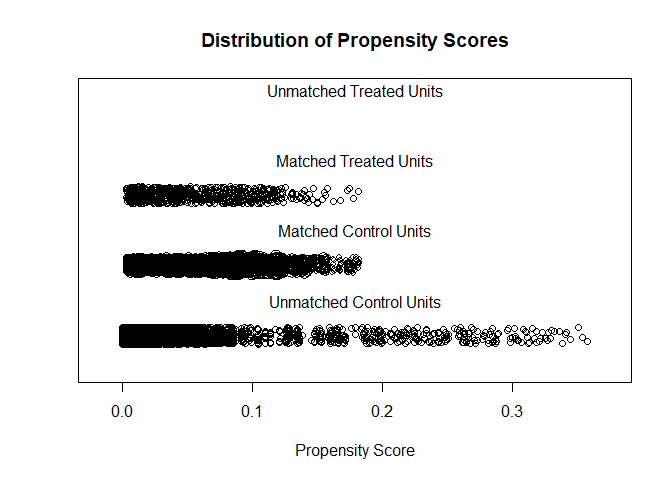
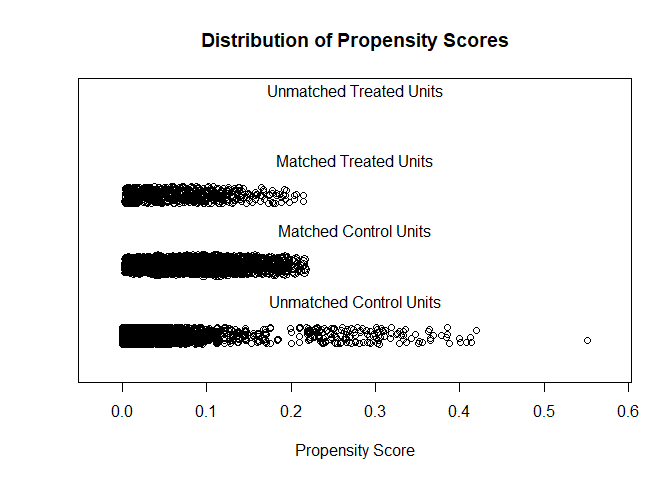
Fix in tutorial

diff --git a/tutorials/BACI_Baviaanskloof.md b/tutorials/BACI_Baviaanskloof.md
@@ -127,15 +127,15 @@ stac_collection <- as.collection("Landsat", stac_endpoint)
 
 The timeframes over which conservation or restoration impacts are
 assessed will depend on the application and study site. Assuming we want
-to evaluate the impact of the Baviaanskloof revegetation from the 5-year
-periods before and the 10-year after the intervention year, we can first
-generate yearly NDVI time series for all impact and candidate control
-pixels:
+to evaluate the impact of the Baviaanskloof revegetation from the
+10-year periods before and the 10-year after the intervention year, we
+can first generate yearly NDVI time series for all impact and candidate
+control pixels:
 
 ``` r
 vi_before <- eo_VI_yearly.stac(matchingCands, "NDVI",
                                endpoint=stac_endpoint, collection=stac_collection,
-                               years=seq(year-5, year-1, 1),
+                               years=seq(year-10, year-1, 1),
                                months = 3:5,
                                maxCloud=60)
 vi_after <- eo_VI_yearly.stac(matchingCands, "NDVI",
@@ -169,7 +169,7 @@ them to temporal files).
 ``` r
 vi_before <- as.SpatRaster(vi_before)
 vi_after <- as.SpatRaster(vi_after)
-plot(vi_before, main=paste0("NDVI - ",seq(year-5, year-1, 1)))
+plot(vi_before, main=paste0("NDVI - ",seq(year-10, year-1, 1)))
 ```
 
 ![](BACI_Baviaanskloof_files/figure-gfm/unnamed-chunk-5-1.png)<!-- -->
@@ -288,11 +288,13 @@ CI_matches <- matchCI(cands=matchingCands,
                       ratio=10, replace=TRUE, eval=TRUE)
 ```
 
+    ## Warning: glm.fit: fitted probabilities numerically 0 or 1 occurred
+
     ## A `matchit` object
     ##  - method: 10:1 nearest neighbor matching with replacement
     ##  - distance: Propensity score
     ##              - estimated with logistic regression
-    ##  - number of obs.: 41533 (original), 5226 (matched)
+    ##  - number of obs.: 41533 (original), 5148 (matched)
     ##  - target estimand: ATT
     ##  - covariates: elevation, slope, northness, eastness, landcover, dist_roads, average, trend
     ## Press <Enter> to continue.
@@ -303,7 +305,7 @@ CI_matches <- matchCI(cands=matchingCands,
     ## 
     ## Summary of Balance for All Data:
     ##                      Means Treated Means Control Std. Mean Diff. Var. Ratio
-    ## distance                    0.0561        0.0149          1.0211     2.0603
+    ## distance                    0.0649        0.0147          1.0216     2.6773
     ## elevation                 546.2999      703.4295         -2.3675     0.1285
     ## slope                       0.2301        0.2721         -0.4061     0.3091
     ## northness                   0.0969        0.0510          0.0644     0.9952
@@ -315,10 +317,10 @@ CI_matches <- matchCI(cands=matchingCands,
     ## landcoverBare ground        0.0000        0.0127         -0.1145          .
     ## landcoverRangeland          1.0000        0.9441          0.2453          .
     ## dist_roads                529.3399      880.9122         -1.0889     0.1317
-    ## average                     0.1261        0.1387         -0.9725     0.1308
-    ## trend                      -0.0000       -0.0000         -0.3697     0.3158
+    ## average                     0.1232        0.1376         -1.1515     0.1047
+    ## trend                       0.0000        0.0000          1.1162     0.1369
     ##                      eCDF Mean eCDF Max
-    ## distance                0.3687   0.5680
+    ## distance                0.3802   0.5933
     ## elevation               0.2543   0.5803
     ## slope                   0.0927   0.1958
     ## northness               0.0246   0.0619
@@ -330,47 +332,47 @@ CI_matches <- matchCI(cands=matchingCands,
     ## landcoverBare ground    0.0127   0.0127
     ## landcoverRangeland      0.0559   0.0559
     ## dist_roads              0.0901   0.2457
-    ## average                 0.1296   0.2582
-    ## trend                   0.1410   0.2609
+    ## average                 0.1478   0.2970
+    ## trend                   0.1841   0.3341
     ## 
     ## Summary of Balance for Matched Data:
     ##                      Means Treated Means Control Std. Mean Diff. Var. Ratio
-    ## distance                    0.0561        0.0561         -0.0000     1.0011
-    ## elevation                 546.2999      535.5230          0.1624     0.2728
-    ## slope                       0.2301        0.2359         -0.0559     0.2184
-    ## northness                   0.0969        0.1058         -0.0125     1.0266
-    ## eastness                    0.4167        0.4115          0.0095     0.9546
+    ## distance                    0.0649        0.0649         -0.0000     1.0011
+    ## elevation                 546.2999      540.5753          0.0863     0.2844
+    ## slope                       0.2301        0.2374         -0.0708     0.2286
+    ## northness                   0.0969        0.1043         -0.0105     0.9844
+    ## eastness                    0.4167        0.3959          0.0375     0.9799
     ## landcoverWater              0.0000        0.0000          0.0000          .
     ## landcoverTrees              0.0000        0.0000          0.0000          .
     ## landcoverCrops              0.0000        0.0000          0.0000          .
     ## landcoverBuilt area         0.0000        0.0000          0.0000          .
     ## landcoverBare ground        0.0000        0.0000          0.0000          .
     ## landcoverRangeland          1.0000        1.0000          0.0000          .
-    ## dist_roads                529.3399      501.3413          0.0867     0.2993
-    ## average                     0.1261        0.1293         -0.2513     0.1527
-    ## trend                      -0.0000       -0.0000          0.1087     0.5013
+    ## dist_roads                529.3399      511.9099          0.0540     0.2852
+    ## average                     0.1232        0.1242         -0.0803     0.1568
+    ## trend                       0.0000        0.0000         -0.0100     0.2848
     ##                      eCDF Mean eCDF Max Std. Pair Dist.
-    ## distance                0.0001   0.0040          0.0020
-    ## elevation               0.0911   0.2550          1.3318
-    ## slope                   0.1552   0.2975          1.8682
-    ## northness               0.0174   0.0401          1.1650
-    ## eastness                0.0104   0.0321          0.9679
+    ## distance                0.0001   0.0047          0.0023
+    ## elevation               0.0840   0.2427          1.3153
+    ## slope                   0.1478   0.2896          1.8831
+    ## northness               0.0217   0.0511          1.1591
+    ## eastness                0.0133   0.0413          0.9589
     ## landcoverWater          0.0000   0.0000          0.0000
     ## landcoverTrees          0.0000   0.0000          0.0000
     ## landcoverCrops          0.0000   0.0000          0.0000
     ## landcoverBuilt area     0.0000   0.0000          0.0000
     ## landcoverBare ground    0.0000   0.0000          0.0000
     ## landcoverRangeland      0.0000   0.0000          0.0000
-    ## dist_roads              0.1022   0.2252          1.3774
-    ## average                 0.1164   0.2287          2.0783
-    ## trend                   0.0260   0.0598          1.2324
+    ## dist_roads              0.1068   0.2266          1.4566
+    ## average                 0.1134   0.2070          2.0886
+    ## trend                   0.0765   0.1311          1.6095
     ## 
     ## Sample Sizes:
     ##                Control Treated
     ## All           40889.       644
-    ## Matched (ESS)  3412.34     644
-    ## Matched        4582.       644
-    ## Unmatched     36307.         0
+    ## Matched (ESS)  3453.26     644
+    ## Matched        4504.       644
+    ## Unmatched     36385.         0
     ## Discarded         0.         0
     ## 
     ## Press <Enter> to continue.
@@ -420,30 +422,30 @@ baci_results$data
     ## Key: <subclass>
     ##      subclass        x       y contrast.average p_value.average contrast.trend
     ##        <fctr>    <num>   <num>            <num>           <num>          <num>
-    ##   1:        1 229386.6 6279807    -0.0003746176     0.895031108   1.392449e-05
-    ##   2:        2 229446.6 6279807    -0.0054747330     0.382346104   1.688120e-05
-    ##   3:        3 229326.6 6279747     0.0078372022     0.201407228   8.659828e-06
-    ##   4:        4 229386.6 6279747    -0.0027284429     0.446653584   1.699763e-05
-    ##   5:        5 229446.6 6279747     0.0013735059     0.667809116   1.690212e-05
+    ##   1:        1 229386.6 6279807    -0.0025944542     0.444675364  -4.961662e-06
+    ##   2:        2 229446.6 6279807    -0.0004412495     0.935136932  -8.293725e-06
+    ##   3:        3 229326.6 6279747    -0.0026046820     0.255522704  -7.789410e-06
+    ##   4:        4 229386.6 6279747    -0.0097179188     0.008781027  -1.175984e-05
+    ##   5:        5 229446.6 6279747    -0.0033991392     0.115909852  -5.728579e-06
     ##  ---                                                                          
-    ## 640:      640 229746.6 6277647     0.0046694804     0.288592095   1.407298e-05
-    ## 641:      641 229806.6 6277647    -0.0096939892     0.092589067  -1.062089e-05
-    ## 642:      642 230886.6 6277647    -0.0046333133     0.341301624   1.744167e-05
-    ## 643:      643 229626.6 6277587     0.0077999164     0.059704736   1.796409e-05
-    ## 644:      644 229686.6 6277587     0.0196893863     0.001993363   2.236806e-07
+    ## 640:      640 229746.6 6277647     0.0008127052     0.872870580   4.435551e-07
+    ## 641:      641 229806.6 6277647    -0.0050947099     0.440182694  -4.999272e-06
+    ## 642:      642 230886.6 6277647    -0.0031109004     0.324973616   9.513768e-06
+    ## 643:      643 229626.6 6277587     0.0019291454     0.570836707   2.530207e-07
+    ## 644:      644 229686.6 6277587    -0.0020829824     0.616266919   1.555600e-06
     ##      p_value.trend
     ##              <num>
-    ##   1:  4.685798e-02
-    ##   2:  4.948313e-04
-    ##   3:  1.362737e-01
-    ##   4:  5.336991e-06
-    ##   5:  8.506292e-04
+    ##   1:  6.864969e-03
+    ##   2:  1.402709e-03
+    ##   3:  3.601756e-03
+    ##   4:  9.342926e-04
+    ##   5:  5.202500e-03
     ##  ---              
-    ## 640:  9.864862e-03
-    ## 641:  2.144863e-02
-    ## 642:  7.827747e-04
-    ## 643:  6.673863e-02
-    ## 644:  9.391747e-01
+    ## 640:  8.384708e-01
+    ## 641:  7.343904e-02
+    ## 642:  8.019416e-05
+    ## 643:  8.862165e-01
+    ## 644:  4.443752e-01
 
 The BACI results can also be plotted on a map, here with non-significant
 BACI contrast masked out. If desired, the pixel-based results can now be
